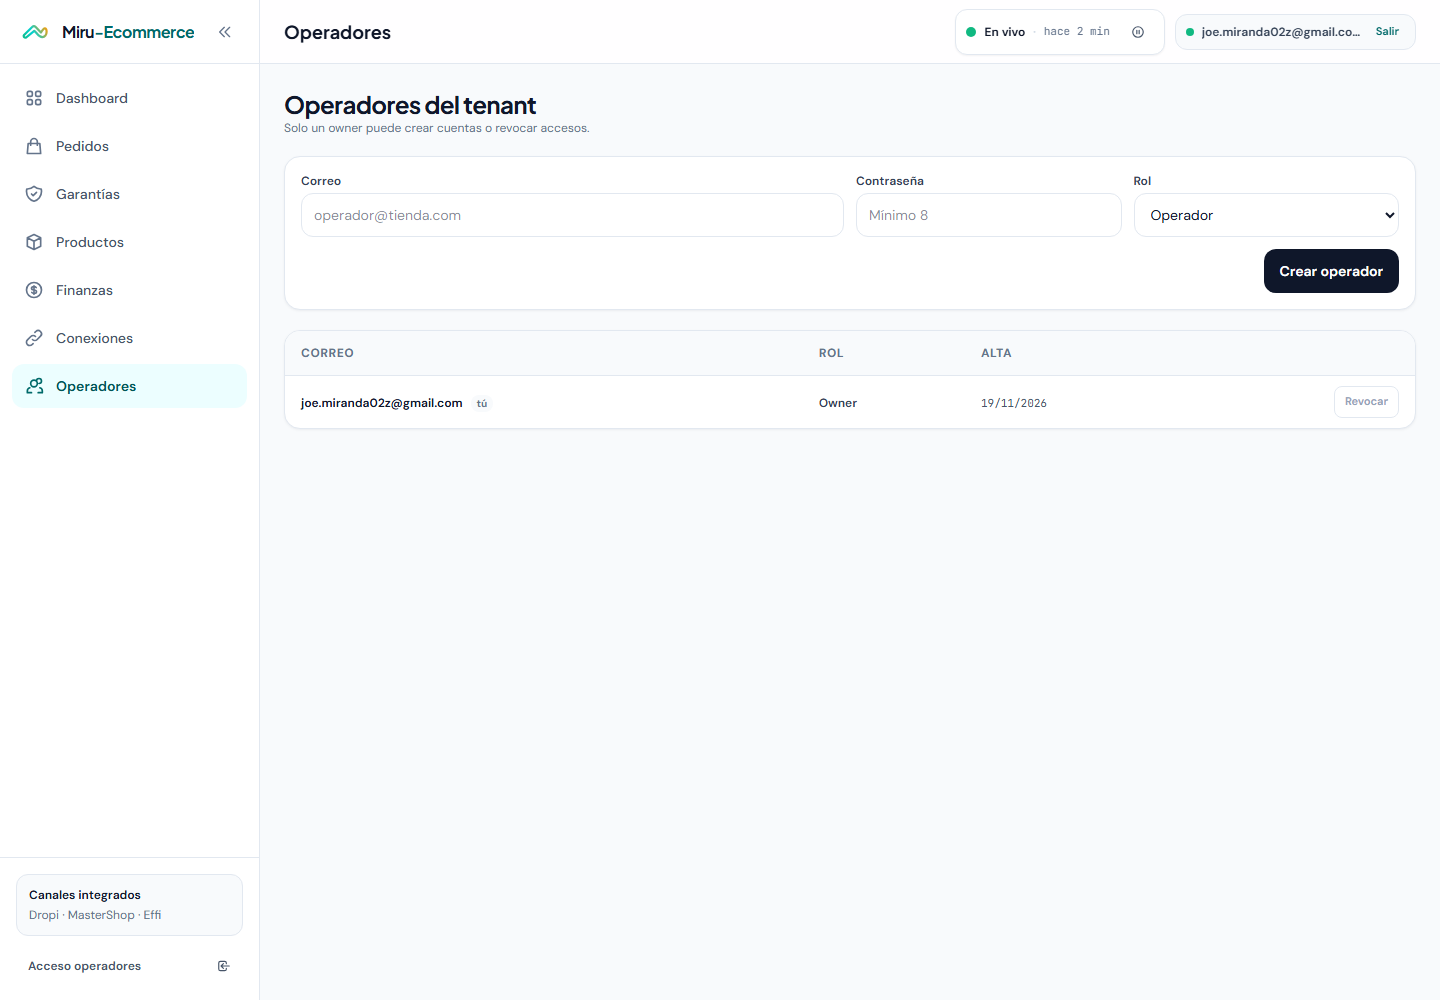
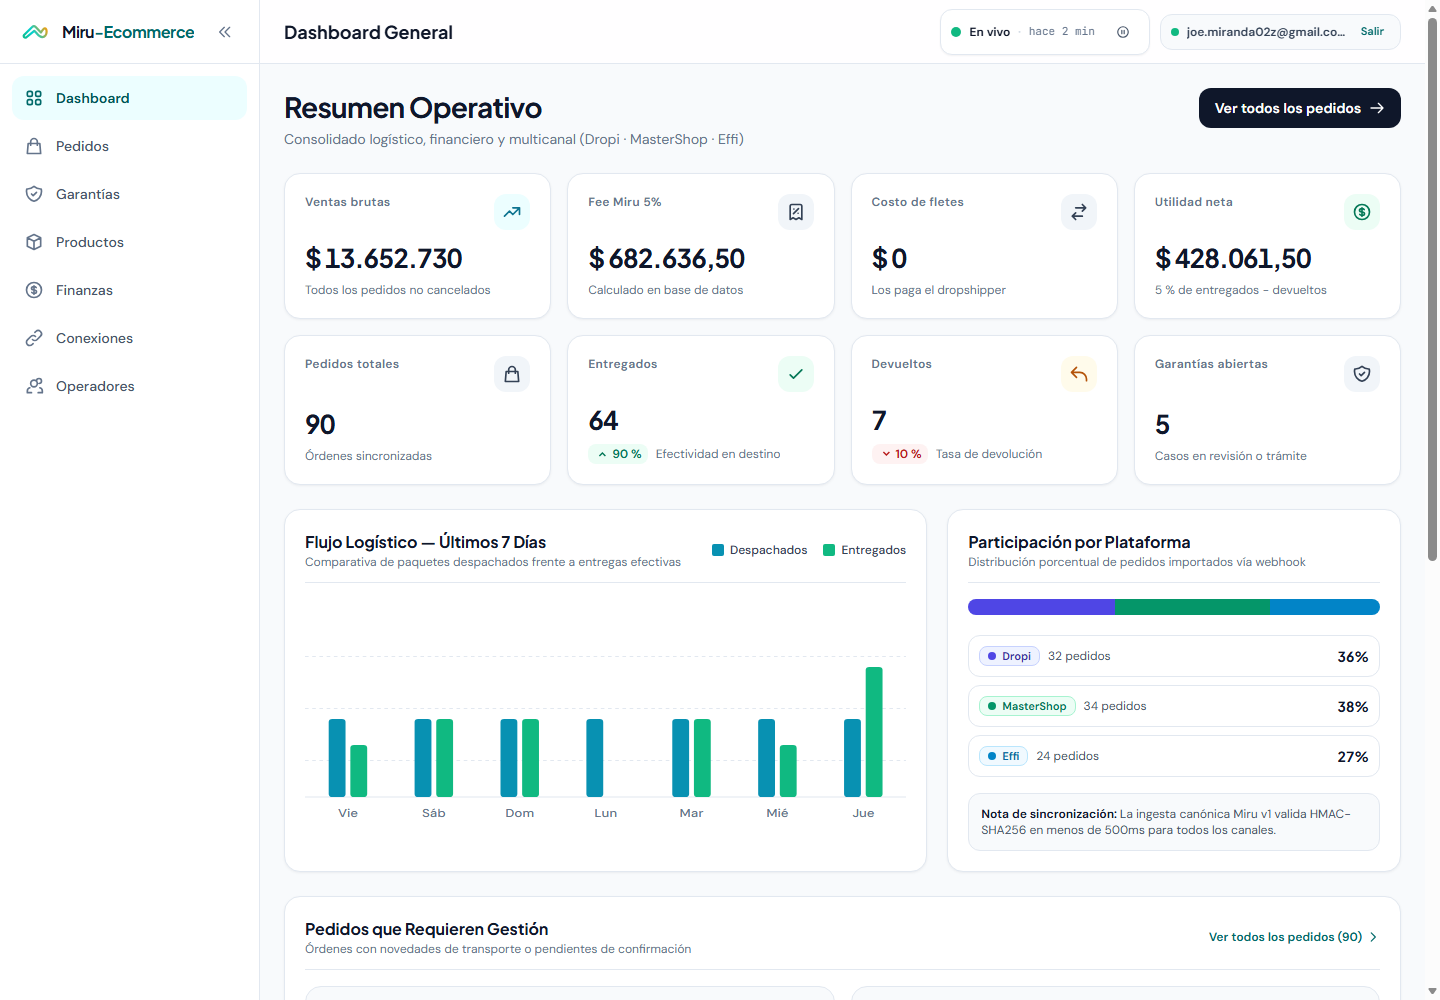
feat(deploy): stack Docker para ingesta y worker en el VPS
- deploy/Dockerfile.ingest y Dockerfile.worker (Node 22 + pnpm 11.28.5),
  construidos y probados localmente.
- deploy/docker-compose.prod.yml: Redis + ingest + worker + Caddy, con 3001
  solo en localhost y TLS automático.
- deploy/Caddyfile (subdominio api), deploy/env.prod.example y .dockerignore.
- seed.sql: usa el primer tenant (local crea Tienda Prueba; producción usa el
  tenant real) para poder cargar demo sin crear tenants nuevos.
- docs/DESPLIEGUE.md: estado real de producción y guía completa del VPS.

diff --git a/docs/DESPLIEGUE.md b/docs/DESPLIEGUE.md
@@ -121,7 +121,74 @@ entrega a las plataformas junto con el secreto HMAC ([`integraciones/MIRU_V1_TRA
 - [ ] Cabeceras de seguridad activas (`X-Content-Type-Options`, `Referrer-Policy`, etc.).
 - [ ] Dominio con HTTPS válido y HSTS de Vercel.
 
-## 6. Estándares y operación
+## 6. Servicios de integración en el VPS (Contabo)
+
+Vercel solo aloja la WebApp. La ingesta, el worker y Redis van en el VPS con Docker
+(`deploy/docker-compose.prod.yml`).
+
+### 6.1 Requisitos
+
+- IP pública del VPS y acceso SSH (`root` o usuario con sudo).
+- Docker Engine + plugin `docker compose` (v2).
+- Un subdominio para la ingesta, p. ej. `api.<dominio>`, con registro **A** apuntando a la IP del
+  VPS (se crea en Hostinger). Caddy emite el certificado TLS automáticamente.
+
+### 6.2 Preparar el servidor
+
+```bash
+# En el VPS
+apt update && apt install -y git curl
+curl -fsSL https://get.docker.com | sh
+ufw allow 22/tcp && ufw allow 80/tcp && ufw allow 443/tcp && ufw --force enable
+
+git clone https://github.com/joel658702/Miru-Ecommerce.git /opt/miru
+cd /opt/miru
+cp deploy/env.prod.example deploy/.env.prod
+chmod 600 deploy/.env.prod
+# Editar deploy/.env.prod: SUPABASE_SERVICE_ROLE_KEY y MIRU_WEBHOOK_HMAC_SECRET
+# Editar deploy/Caddyfile: reemplazar api.miru.example por el subdominio real
+```
+
+### 6.3 Levantar el stack
+
+```bash
+docker compose -f deploy/docker-compose.prod.yml --env-file deploy/.env.prod up -d --build
+docker compose -f deploy/docker-compose.prod.yml ps
+docker compose -f deploy/docker-compose.prod.yml logs -f ingest
+```
+
+Comprobaciones:
+
+- `curl http://127.0.0.1:3001/health` → `{"ok":true}` (solo desde el propio servidor).
+- `curl https://api.<dominio>/health` → `{"ok":true}` (por Caddy y con TLS).
+- El puerto 3001 **no** debe estar abierto al público.
+
+### 6.4 Conectar la WebApp
+
+1. En Vercel, agregar `NEXT_PUBLIC_INGEST_URL=https://api.<dominio>` (Production y Preview).
+2. Redeploy para que el build la tome (`vercel --prod` o push a `main`).
+3. `/conexiones` debe mostrar la URL completa del webhook por canal.
+
+### 6.5 Prueba de humo de la integración
+
+```bash
+# Desde tu máquina, con un connection_id real de la tabla connections
+pnpm webhook:sign docs/integraciones/ejemplo-order.upserted.json "$MIRU_WEBHOOK_HMAC_SECRET"
+# Copiar el curl que imprime el script y apuntarlo a https://api.<dominio>/webhooks/miru/v1/<id>
+```
+
+Debe responder `200 accepted`, aparecer la fila en `webhook_events` y el pedido en el panel.
+
+### 6.6 Operación
+
+- **Actualizar:** `cd /opt/miru && git pull && docker compose -f deploy/docker-compose.prod.yml --env-file deploy/.env.prod up -d --build`.
+- **Logs:** `docker compose ... logs -f worker` (los rechazos de webhooks se ven en `process_error`).
+- **Persistencia:** Redis usa el volumen `redis-data` con AOF; los eventos críticos ya están en
+  Supabase, Redis es solo la cola.
+- **Reinicio automático:** `restart: unless-stopped` en todos los servicios.
+- **Firewall:** solo 22/80/443 públicos; 3001 en `127.0.0.1`.
+
+## 7. Estándares y operación
 
 - **Secretos:** solo en variables de entorno; rotar el HMAC por canal cada 90 días o ante
   cualquier sospecha. `service_role` nunca se comparte con la plataforma de origen.
